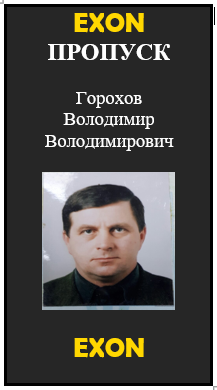
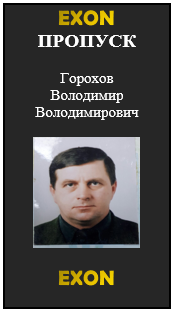
9

diff --git a/Ofiis/index9.html b/Ofiis/index9.html
@@ -5,7 +5,7 @@
   <title>Мои рисунки</title>
  </head>
  <body>
-  <p><img src="imag/AlekseenkoU.PNG" alt="ЛИЧНОСТЬ ПОДТВЕРЖДЕНА"></p>
+  <p><img src="imag/Stoilov.PNG" alt="ЛИЧНОСТЬ ПОДТВЕРЖДЕНА"></p>
   <p>ЛИЧНОСТЬ ПОДТВЕРЖДЕНА</p>
 
  </body>
